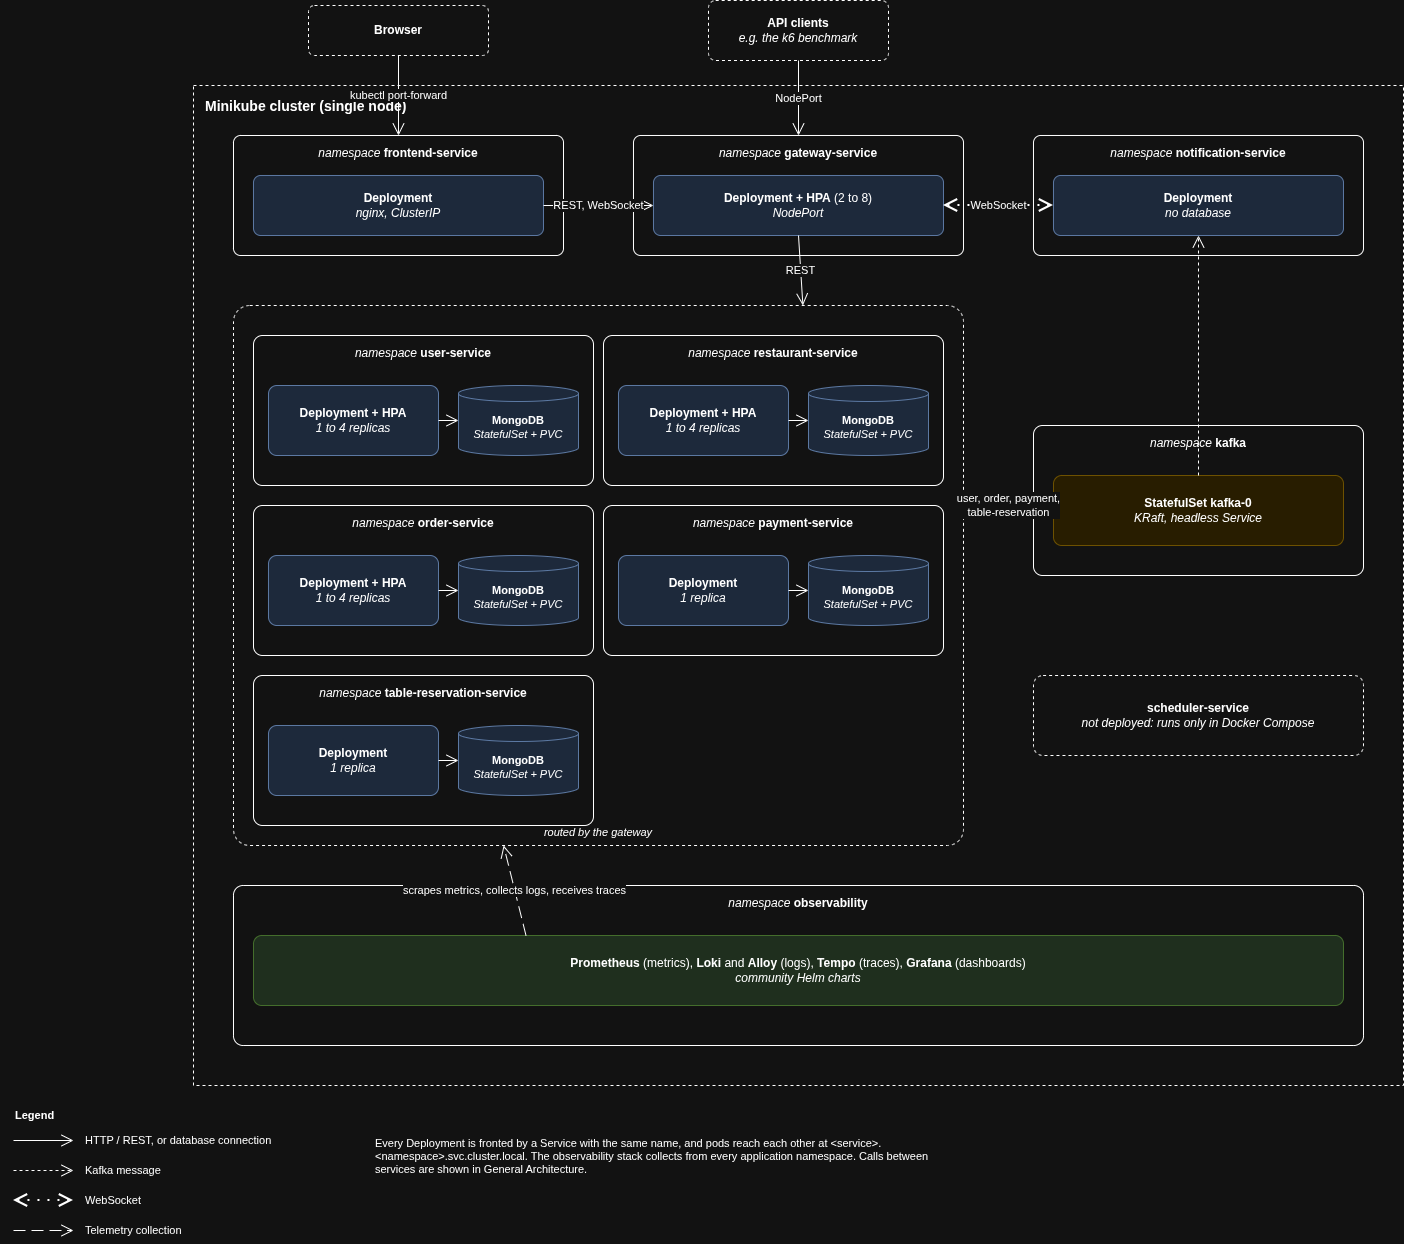
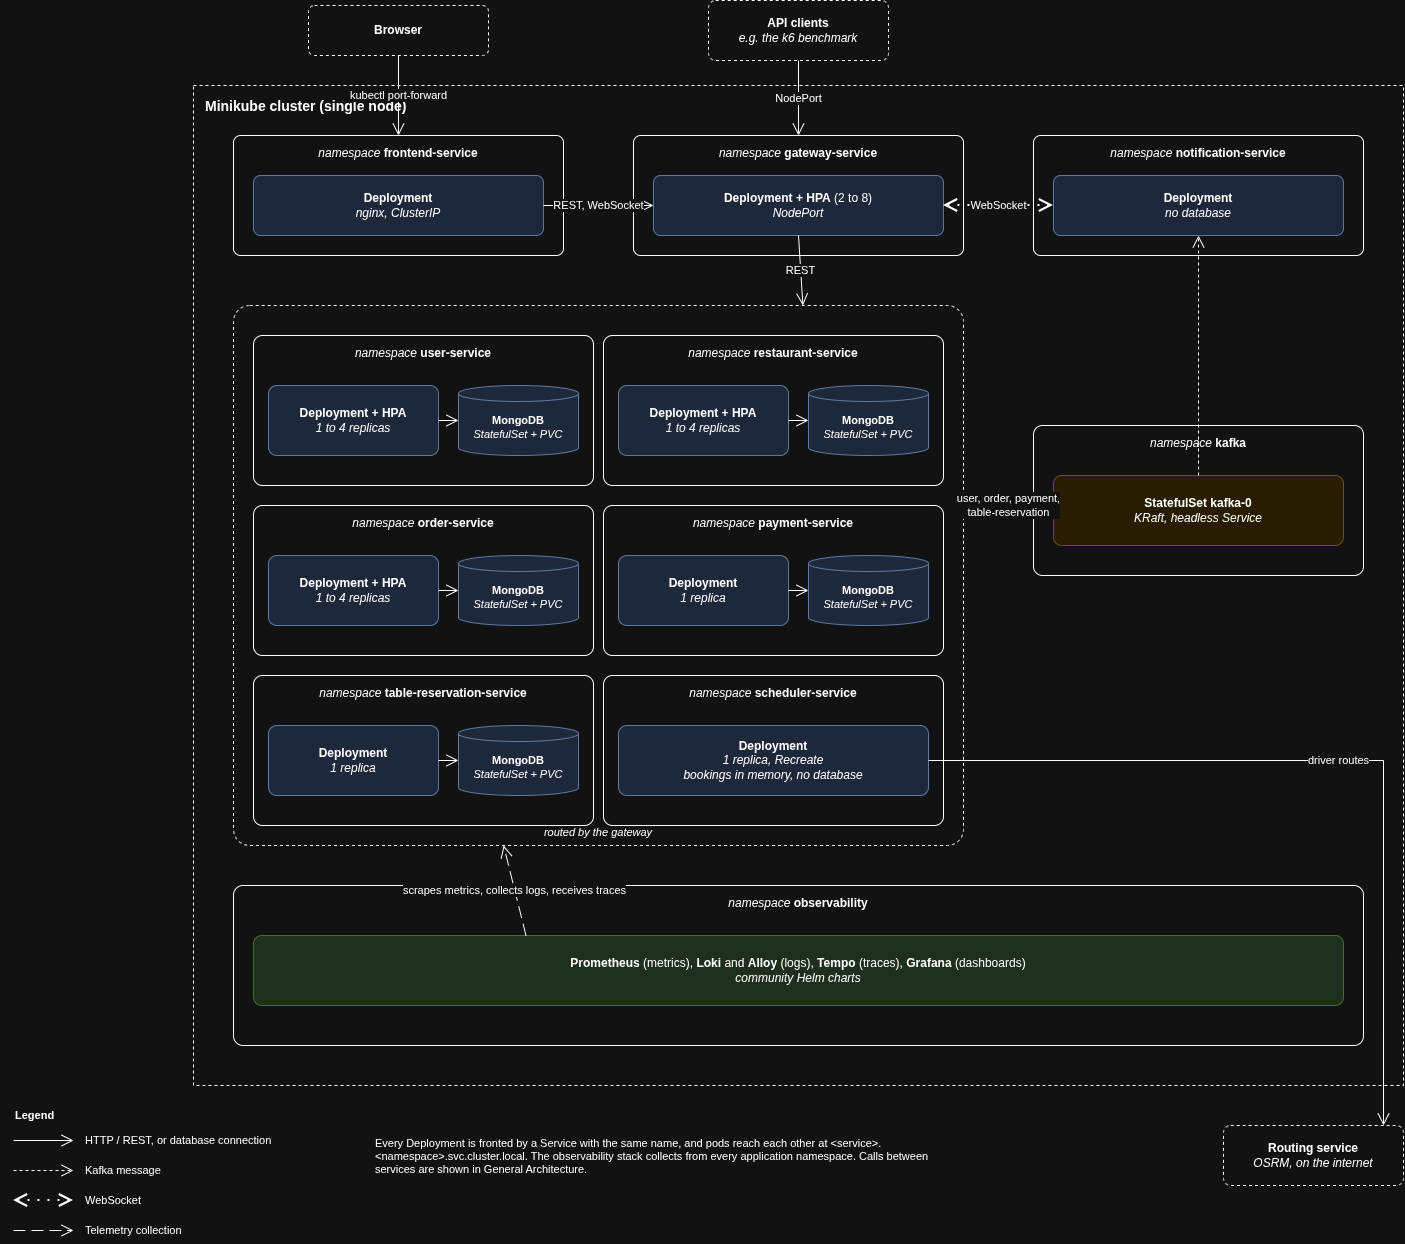
docs(saap): k8 section polish

diff --git a/docs/reports/saap/03-Deployment/kubernetes.md b/docs/reports/saap/03-Deployment/kubernetes.md
@@ -215,8 +215,9 @@ every replica of a service is interchangeable, all of them reading and writing t
 hold a second, empty ledger: during a rolling update, the old and the new pod would each accept bookings for the same
 slot, and together could exceed its capacity. Its values file therefore sets `strategy.type: Recreate`, which stops the
 old pod before starting the new one, and pins it to one replica with no autoscaler. The price is a few seconds in
-which the gateway's `/schedule` routes cannot be answered, and a new pod that starts with no bookings (see
-[Limitations](#limitations)).
+which the gateway's `/schedule` routes cannot be answered, and a new pod that starts with no bookings. Storing the
+bookings in a MongoDB of its own would let the scheduler use the default rolling update and an autoscaler, like the
+other services.
 
 ## Stateful components
 
@@ -310,18 +311,8 @@ kubectl -n frontend-service port-forward svc/frontend-service 5173:8080   # open
 
 ## Limitations
 
-- **The scheduler's state lives in one pod.** `scheduler-service` keeps its bookings and delivery trips in memory, so
-  it runs as a single replica, without an autoscaler, and is replaced with `Recreate`. A restart or a rollout forgets
-  every booking and trip, and briefly leaves the `/schedule` routes without an answer. Storing them in a MongoDB of its
-  own would let it use the default rolling update and an autoscaler, like the other services.
-- **Business services are exposed outside the cluster.** Besides the gateway, `user-service`, `restaurant-service`,
-  `order-service`, `payment-service` and `table-reservation-service` use a `NodePort` `Service`, so they can be called
-  from outside the cluster without passing through the gateway's authentication. Only the gateway needs it; the others
-  could be `ClusterIP`, like `frontend-service` and `notification-service`.
 - **Images are local.** The chart uses `:latest` images loaded into Minikube (`pullPolicy: Never`), not the images
-  published by CI, so a deployment is not tied to a released version. The fixed tag also hides stale images:
-  `minikube image load` does not replace an image already on the node under the same tag, so a redeploy can keep
-  running the previous build with no error. A tag per build, such as the commit hash, would avoid it.
+  published by CI, so a deployment is not tied to a released version.
 - **No liveness probe on the services.** A pod that hangs while still answering `/health` is not restarted; only the
   databases have a liveness probe.
 - **Graceful shutdown only on the gateway.** The other services have no `preStop` sleep and do not handle `SIGTERM`,
@@ -333,8 +324,3 @@ kubectl -n frontend-service port-forward svc/frontend-service 5173:8080   # open
   latency miss its objective. The gateway now closes each client connection after 20 requests, which spreads the load
   onto new replicas within seconds; its own connections to the services behind it are not rebalanced, nor are those
   between other services. Balancing per request with a layer 7 proxy would cover all of them.
-- **Four services are not autoscaled.** `payment-service` and `table-reservation-service` still use hand-written
-  manifests without an autoscaler. `notification-service` is kept at one replica on purpose: the live-notification
-  rooms of its WebSocket live in the process's memory, so with several replicas a user's connection and the Kafka
-  partition carrying their events could land on different pods. Scaling it out needs a shared Socket.io adapter
-  first. `scheduler-service` is kept at one replica for the same kind of reason, its in-memory bookings (see above).
